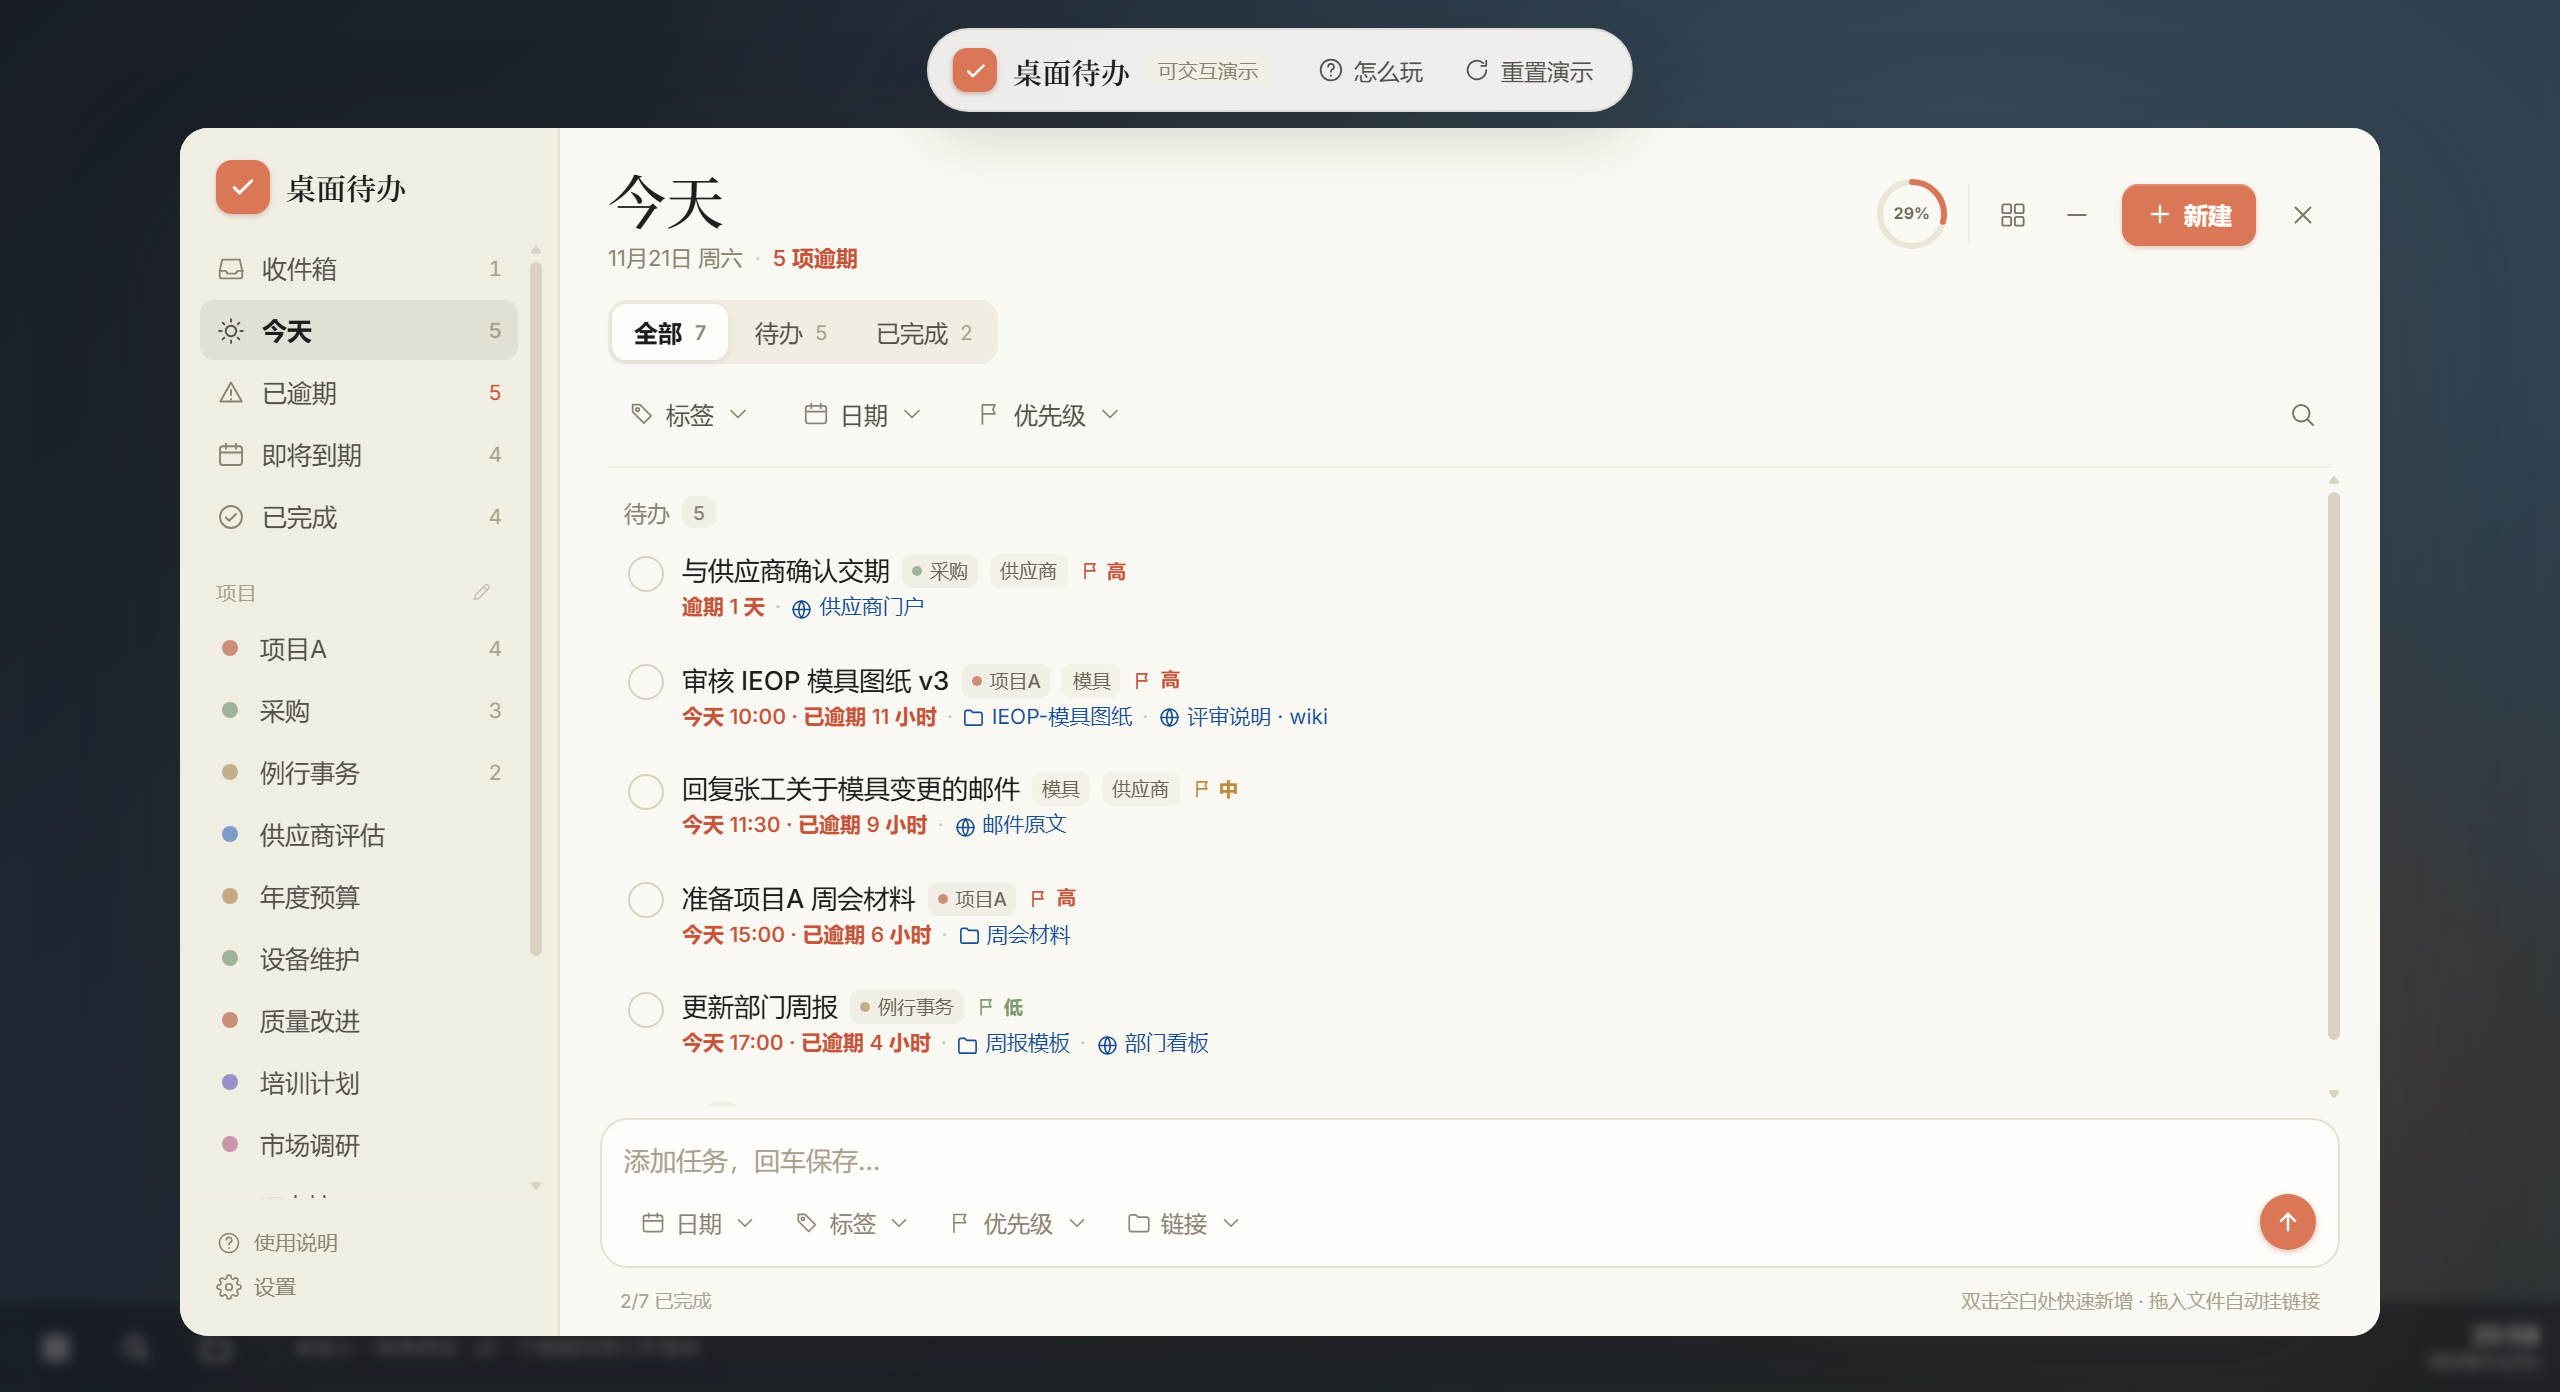
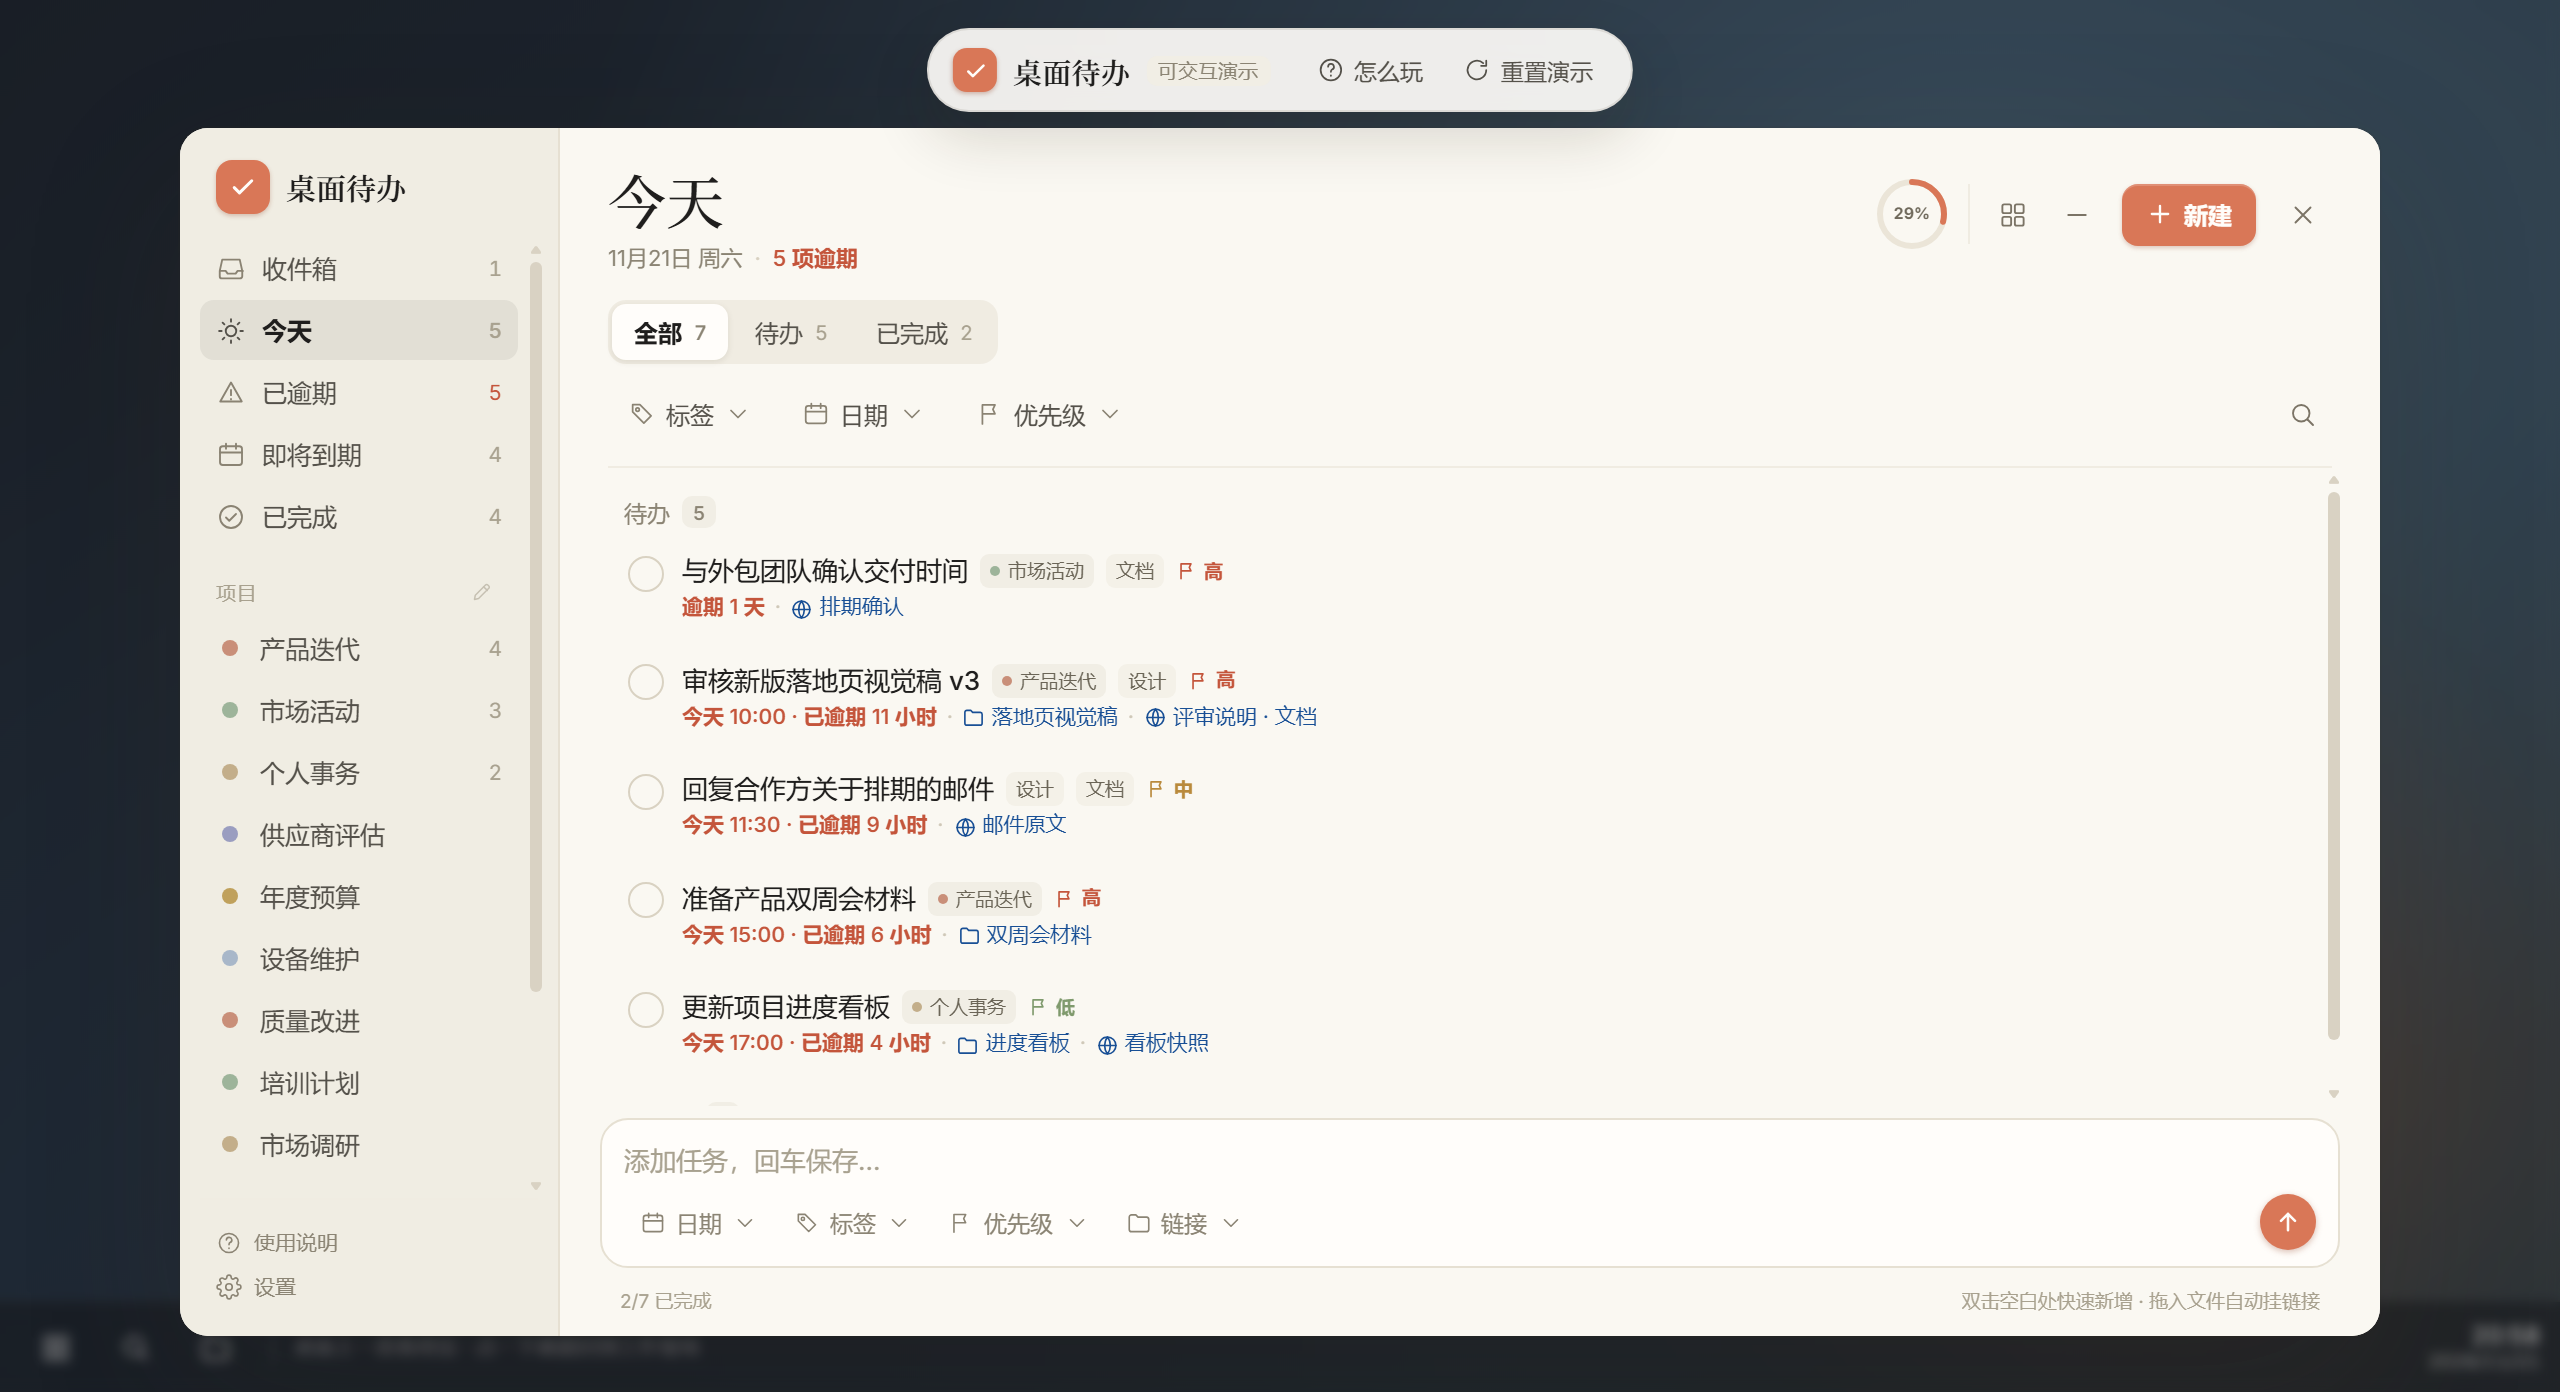
chore(design): 原型示例数据改为虚构数据并同步截图与整页长图
- design/app/js/core.js：15 条演示任务、3 个项目、3 个标签全部换成虚构数据（example.com / \\demo-nas\共享），STORE_KEY 升到 v2
- design/app/js/interactions.js：拖拽模拟路径模板同步为 demo-nas
- 重导 17 张 2560x1392 截图与 app-fullpage.webp（1280x696@2x、固定演示时间 2026-11-21 20:58、干净 headless profile）
- 静态原型页、design/README 无需改动（图片同名替换、整页长图尺寸 2725x16359 不变）

diff --git a/design/app/js/core.js b/design/app/js/core.js
@@ -4,7 +4,7 @@
 (function(){
 'use strict';
 var DT = window.DT = {};
-var STORE_KEY = 'desktopTodo.proto.v1';
+var STORE_KEY = 'desktopTodo.proto.v2';
 DT.STORE_KEY = STORE_KEY;
 DT.VERSION = '1.0';
 
@@ -152,56 +152,56 @@ function task(o){
 DT.seed = function(){
   var now = new Date();
   var projects = [
-    {id:'pA', name:'项目A', color:'#C98F79'},
-    {id:'buy', name:'采购', color:'#9DB49A'},
-    {id:'routine', name:'例行事务', color:'#C3AE8A'}
+    {id:'pA', name:'产品迭代', color:'#C98F79'},
+    {id:'buy', name:'市场活动', color:'#9DB49A'},
+    {id:'routine', name:'个人事务', color:'#C3AE8A'}
   ];
   var tags = [
-    {id:'mould', name:'模具'},
-    {id:'supplier', name:'供应商'},
+    {id:'mould', name:'设计'},
+    {id:'supplier', name:'文档'},
     {id:'equip', name:'设备'}
   ];
   var tasks = [
-    task({title:'审核 IEOP 模具图纸 v3', note:'重点看 3.2 节的型腔尺寸与公差表；确认后同步给工艺组。',
+    task({title:'审核新版落地页视觉稿 v3', note:'重点看移动端断点与按钮间距；确认后同步给前端。',
       projectId:'pA', tagIds:['mould'], priority:'high', due:DT.at(0,10,0), createdAt:DT.at(-2,9,10),
-      links:[link('folder','IEOP-模具图纸','\\\\fileserver\\项目A\\IEOP-模具图纸'), link('url','评审说明 · wiki','https://wiki.company.com/ieop/review')]}),
-    task({title:'准备项目A 周会材料', note:'上次会议遗留的 3 个问题要带上。',
+      links:[link('folder','落地页视觉稿','\\\\demo-nas\\共享\\产品迭代\\落地页视觉稿'), link('url','评审说明 · 文档','https://example.com/docs/landing-review')]}),
+    task({title:'准备产品双周会材料', note:'上次会议遗留的 3 个问题要带上。',
       projectId:'pA', tagIds:[], priority:'high', due:DT.at(0,15,0), createdAt:DT.at(-1,16,20),
-      links:[link('folder','周会材料','\\\\fileserver\\项目A\\周会材料')]}),
-    task({title:'回复张工关于模具变更的邮件', note:'确认变更单编号后再回复。',
+      links:[link('folder','双周会材料','\\\\demo-nas\\共享\\产品迭代\\双周会材料')]}),
+    task({title:'回复合作方关于排期的邮件', note:'确认里程碑编号后再回复。',
       projectId:null, tagIds:['mould','supplier'], priority:'med', due:DT.at(0,11,30), createdAt:DT.at(-1,8,45),
-      links:[link('url','邮件原文','https://mail.company.com/thread/8842')]}),
-    task({title:'更新部门周报', note:'数据从项目看板导出，周五下班前发出。',
+      links:[link('url','邮件原文','https://example.com/mail/thread/8842')]}),
+    task({title:'更新项目进度看板', note:'数据从任务列表导出，周五下班前发出。',
       projectId:'routine', tagIds:[], priority:'low', due:DT.at(0,17,0), createdAt:DT.at(-3,10,0),
-      links:[link('folder','周报模板','\\\\fileserver\\部门\\周报模板'), link('url','部门看板','https://wiki.company.com/dept/board')]}),
-    task({title:'与供应商确认交期', note:'订单 PO-20261118，等对方回复模具钢交期。',
+      links:[link('folder','进度看板','\\\\demo-nas\\共享\\个人事务\\进度看板'), link('url','看板快照','https://example.com/boards/sprint-24')]}),
+    task({title:'与外包团队确认交付时间', note:'订单 DEMO-20261118，等对方回复排期。',
       projectId:'buy', tagIds:['supplier'], priority:'high', due:DT.at(-1,16,0), createdAt:DT.at(-4,14,0),
-      links:[link('url','供应商门户','https://supplier.company.com/orders/PO-20261118')]}),
-    task({title:'整理 Q4 采购需求清单', note:'按项目归并，补齐预算列。',
+      links:[link('url','排期确认','https://example.com/orders/DEMO-20261118')]}),
+    task({title:'整理 Q4 活动需求清单', note:'按项目归并，补齐预算列。',
       projectId:'buy', tagIds:[], priority:'med', due:DT.at(1,10,0), createdAt:DT.at(-2,11,0),
-      links:[link('folder','采购共享盘','\\\\fileserver\\采购\\Q4')]}),
-    task({title:'盘点仓库备件库存', note:'重点盘 3 号库低价易耗件。',
+      links:[link('folder','活动共享盘','\\\\demo-nas\\共享\\市场活动\\Q4')]}),
+    task({title:'盘点活动物料库存', note:'重点盘 3 号库低价易耗件。',
       projectId:'buy', tagIds:['equip'], priority:'low', due:DT.at(2,14,0), createdAt:DT.at(-2,15,30),
-      links:[link('folder','库存台账','\\\\fileserver\\采购\\库存')]}),
-    task({title:'输出模具评审结论', note:'评审会纪要 + 待办分派。',
+      links:[link('folder','物料台账','\\\\demo-nas\\共享\\市场活动\\物料')]}),
+    task({title:'输出设计评审结论', note:'评审会纪要 + 待办分派。',
       projectId:'pA', tagIds:['mould'], priority:'med', due:DT.at(4,10,0), createdAt:DT.at(-1,9,0),
-      links:[link('url','评审说明 · wiki','https://wiki.company.com/ieop/review'), link('folder','会议纪要','\\\\fileserver\\项目A\\会议纪要')]}),
+      links:[link('url','评审说明 · 文档','https://example.com/docs/design-review'), link('folder','会议纪要','\\\\demo-nas\\共享\\产品迭代\\会议纪要')]}),
     task({title:'确认下月排班表', note:'', projectId:'routine', tagIds:[], priority:'none',
       due:DT.at(6,18,0), createdAt:DT.at(-1,17,0), links:[]}),
-    task({title:'研究新的供应商评估模板', note:'找 2 个同行模板对照一下。',
+    task({title:'研究新的竞品调研模板', note:'找 2 个同行模板对照一下。',
       priority:'low', due:null, tagIds:['supplier'], createdAt:DT.at(-5,10,0), links:[]}),
-    task({title:'整理 IEOP 图纸命名规范', note:'顺便把历史图纸批量重命名清单列出来。',
+    task({title:'整理落地页素材命名规范', note:'顺便把历史素材批量重命名清单列出来。',
       projectId:'pA', priority:'none', due:null, createdAt:DT.at(-6,14,0),
-      links:[link('folder','IEOP 目录','\\\\fileserver\\项目A\\IEOP')]}),
+      links:[link('folder','素材库','\\\\demo-nas\\共享\\产品迭代\\素材')]}),
     task({title:'归档项目会议纪要', note:'', projectId:'pA', tagIds:[], priority:'med',
       due:DT.at(0,9,0), done:true, doneAt:DT.at(0,10,20), createdAt:DT.at(-4,9,0),
-      links:[link('folder','会议纪要','\\\\fileserver\\项目A\\会议纪要')]}),
+      links:[link('folder','会议纪要','\\\\demo-nas\\共享\\产品迭代\\会议纪要')]}),
     task({title:'回复设计评审意见', note:'', projectId:'pA', tagIds:['mould'], priority:'med',
       due:DT.at(0,14,0), done:true, doneAt:DT.at(0,14,40), createdAt:DT.at(-3,10,0),
-      links:[link('url','评审说明 · wiki','https://wiki.company.com/ieop/review')]}),
-    task({title:'下单采购模具钢材', note:'', projectId:'buy', tagIds:['mould','supplier'], priority:'high',
+      links:[link('url','评审说明 · 文档','https://example.com/docs/design-review')]}),
+    task({title:'下单采购活动印刷物', note:'', projectId:'buy', tagIds:['mould','supplier'], priority:'high',
       due:DT.at(-2,11,0), done:true, doneAt:DT.at(-2,12,10), createdAt:DT.at(-5,9,0),
-      links:[link('folder','采购合同','\\\\fileserver\\采购\\合同')]}),
+      links:[link('folder','采购合同','\\\\demo-nas\\共享\\市场活动\\合同')]}),
     task({title:'提交上周工时', note:'', projectId:'routine', tagIds:[], priority:'none',
       due:DT.at(-1,18,0), done:true, doneAt:DT.at(-1,18,30), createdAt:DT.at(-6,9,0), links:[]})
   ];

diff --git a/design/app/js/interactions.js b/design/app/js/interactions.js
@@ -582,7 +582,7 @@ function linksFromDrop(dataTransfer){
       var name = (entry && entry.name) || (file && file.name) || '文件';
       var isDir = !!(entry && entry.isDirectory);
       out.push({id:DT.uid('lk'), type:isDir?'folder':'file', name:name,
-        path:'[原型演示] \\\\fileserver\\\\共享\\\\' + name});
+        path:'[原型演示] \\\\demo-nas\\\\共享\\\\' + name});
     }
   }
   if(!out.length){
